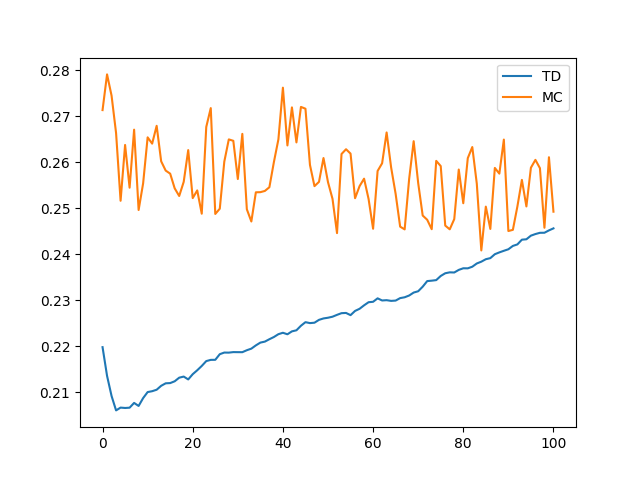
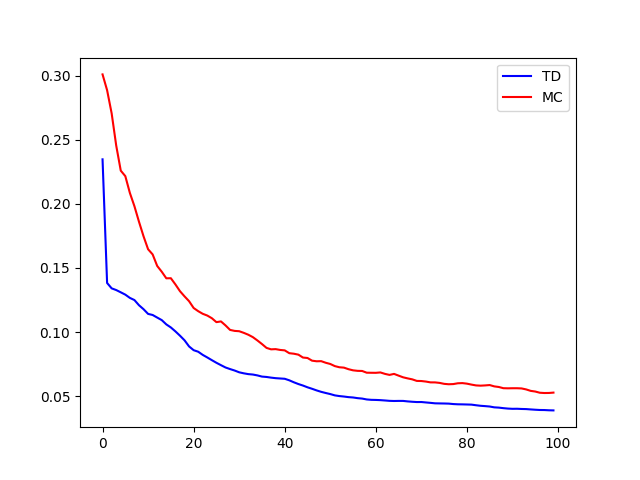
second commit

diff --git a/Chapter6/Figure6-2.py b/Chapter6/Figure6-2.py
@@ -16,7 +16,7 @@ def find_next_state(current_state):
 
 
 class Random_Walk_Batch_Update(object):
-    def __init__(self, initial_state=3, num_state=7, step_size=1e-4):
+    def __init__(self, initial_state=3, num_state=7, step_size=0.001):
         self.initial_state = initial_state  # start in the center state, C, state number is 3
         self.num_state = num_state  # the number of states
         self.step_size = step_size  # the step_size is the step size
@@ -42,8 +42,8 @@ class Random_Walk_Batch_Update(object):
         while True:
             next_state = find_next_state(state)  # to find the next state
             reward = 0
-            if next_state == self.states[-1]:
-                reward = 1
+            # if next_state == self.states[-1]:
+            #    reward = 1
 
             rewards.append(reward)
             trajectory.append(next_state)
@@ -82,52 +82,63 @@ class Random_Walk_Batch_Update(object):
 
         return trajectory, [returns] * (len(trajectory) - 1)
 
-    def batch_update_rsm(self, episode=100, runs=100, method_flag=False):
+    def batch_update_rsm(self, episodes=100, runs=100, method_flag=False):
         """
         to compute the root mean-squared error of batch updating
-        :param episode: the number of episodes
+        :param episodes: the number of episodes
         :param runs: the number of runs
-        :param method_flag: whether use MC method or TD method
+        :param method_flag: whether use MC method or TD method, default method is TD
         :return:
         """
-        error_rms = np.zeros(episode + 1)
+        error_rms = np.zeros(episodes + 1)
         for run in tqdm(range(runs)):
             current_value = self.initial_value.copy()
-            error = []
-            for idx in np.arange(episode + 1):
-                if method_flag:                                                # Monte Carlo method if True
+            trajectory = []
+            rewards = []
+            for idx in range(episodes + 1):
+                # Monte Carlo method if True
+                if method_flag:
                     list_trajectory, list_rewards = self.monte_carlo()
-                else:                                                          # default method is temporal-difference
+                # default method is temporal-difference
+                else:
                     list_trajectory, list_rewards = self.temporal_difference()
+                trajectory.append(list_trajectory)
+                rewards.append(list_rewards)
+
                 while True:
                     temp_array = np.zeros(self.num_state)
-                    for track, rew in zip([list_trajectory], [list_rewards]):
-                        for i in np.arange(len(track) - 1):
-                            if method_flag:                                     # Monte Carlo method if True
-                                temp_array[track[i]] += rew[i] - current_value[track[i]]
-                            else:                                               # default method is temporal-difference
-                                temp_array[track[i]] += rew[i] + current_value[track[i+1]] - current_value[track[i]]
+                    for track, reward in zip(trajectory, rewards):
+                        for i in range(len(track) - 1):
+                            if method_flag:                     # Monte Carlo method if True
+                                temp_array[track[i]] += reward[i] - current_value[track[i]]
+                            else:                                       # default method is temporal-difference
+                                temp_array[track[i]] += reward[i] + current_value[track[i+1]] - \
+                                                        current_value[track[i]]
                     temp_array *= self.step_size
-                    if np.linalg.norm(temp_array) < 1e-4:
+                    current_value += temp_array  # batch updating for state value
+                    if np.sum(np.abs(temp_array)) < 1e-3:
                         break
-                    current_value += temp_array    # batch updating for state value
-                # error_rms[idx] += np.sqrt(np.linalg.norm(current_value-self.real_value)**2/len(current_value[1:-1]))
-                error.append(np.sqrt(np.linalg.norm(current_value-self.real_value)**2/len(current_value[1:-1])))
-            error_rms += np.asarray(error)
+
+                error_rms[idx] += np.sqrt(np.linalg.norm(current_value-self.real_value)**2/
+                                          len(current_value[1:-1]))
+
         error_rms /= runs  # to average the error
         return error_rms
 
 
+
+
 if __name__ == "__main__":
     random_walk_batch_update = Random_Walk_Batch_Update()
-
+    # td_error_rsm = batch_updating("TD")
+    # mc_error_rsm = batch_updating("MC")
     td_error_rsm = random_walk_batch_update.batch_update_rsm(method_flag=False)
     mc_error_rsm = random_walk_batch_update.batch_update_rsm(method_flag=True)
 
-    print("Starting plotting the figure......\n")
-    plt.plot(td_error_rsm, label=r"TD")
-    plt.plot(mc_error_rsm, label=r"MC")
+    plt.plot(td_error_rsm[1:], label=r"TD", color="b")
+    plt.plot(mc_error_rsm[1:], label=r"MC", color="r")
     plt.legend()
     plt.savefig("./images/Figure6-2.png")
     plt.show()
     plt.close()
+    print("Completed!!! You can check it in the 'images' directory!")
